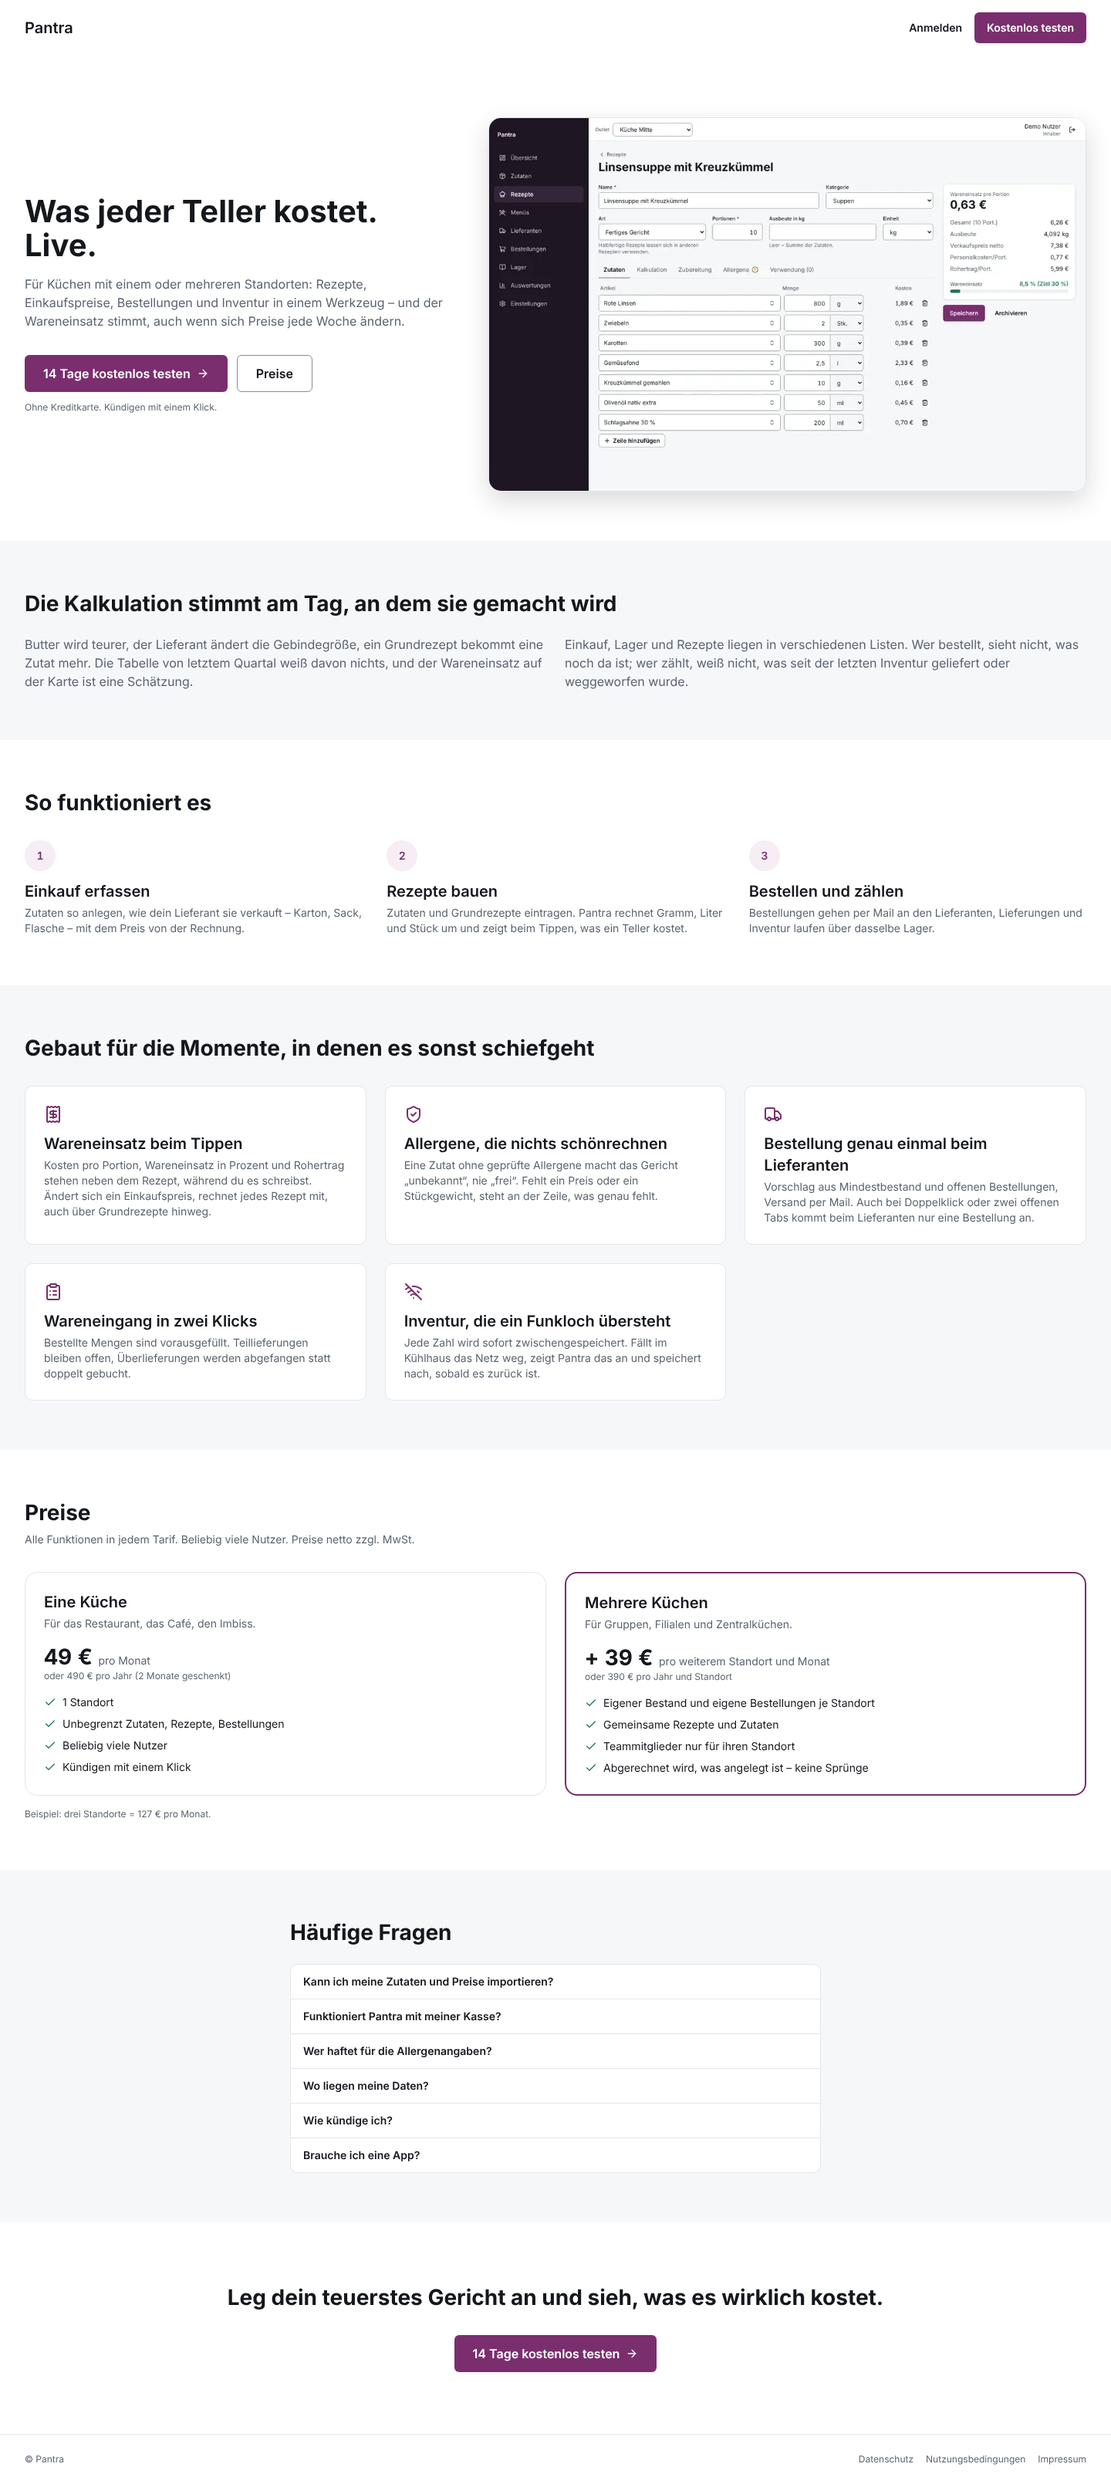
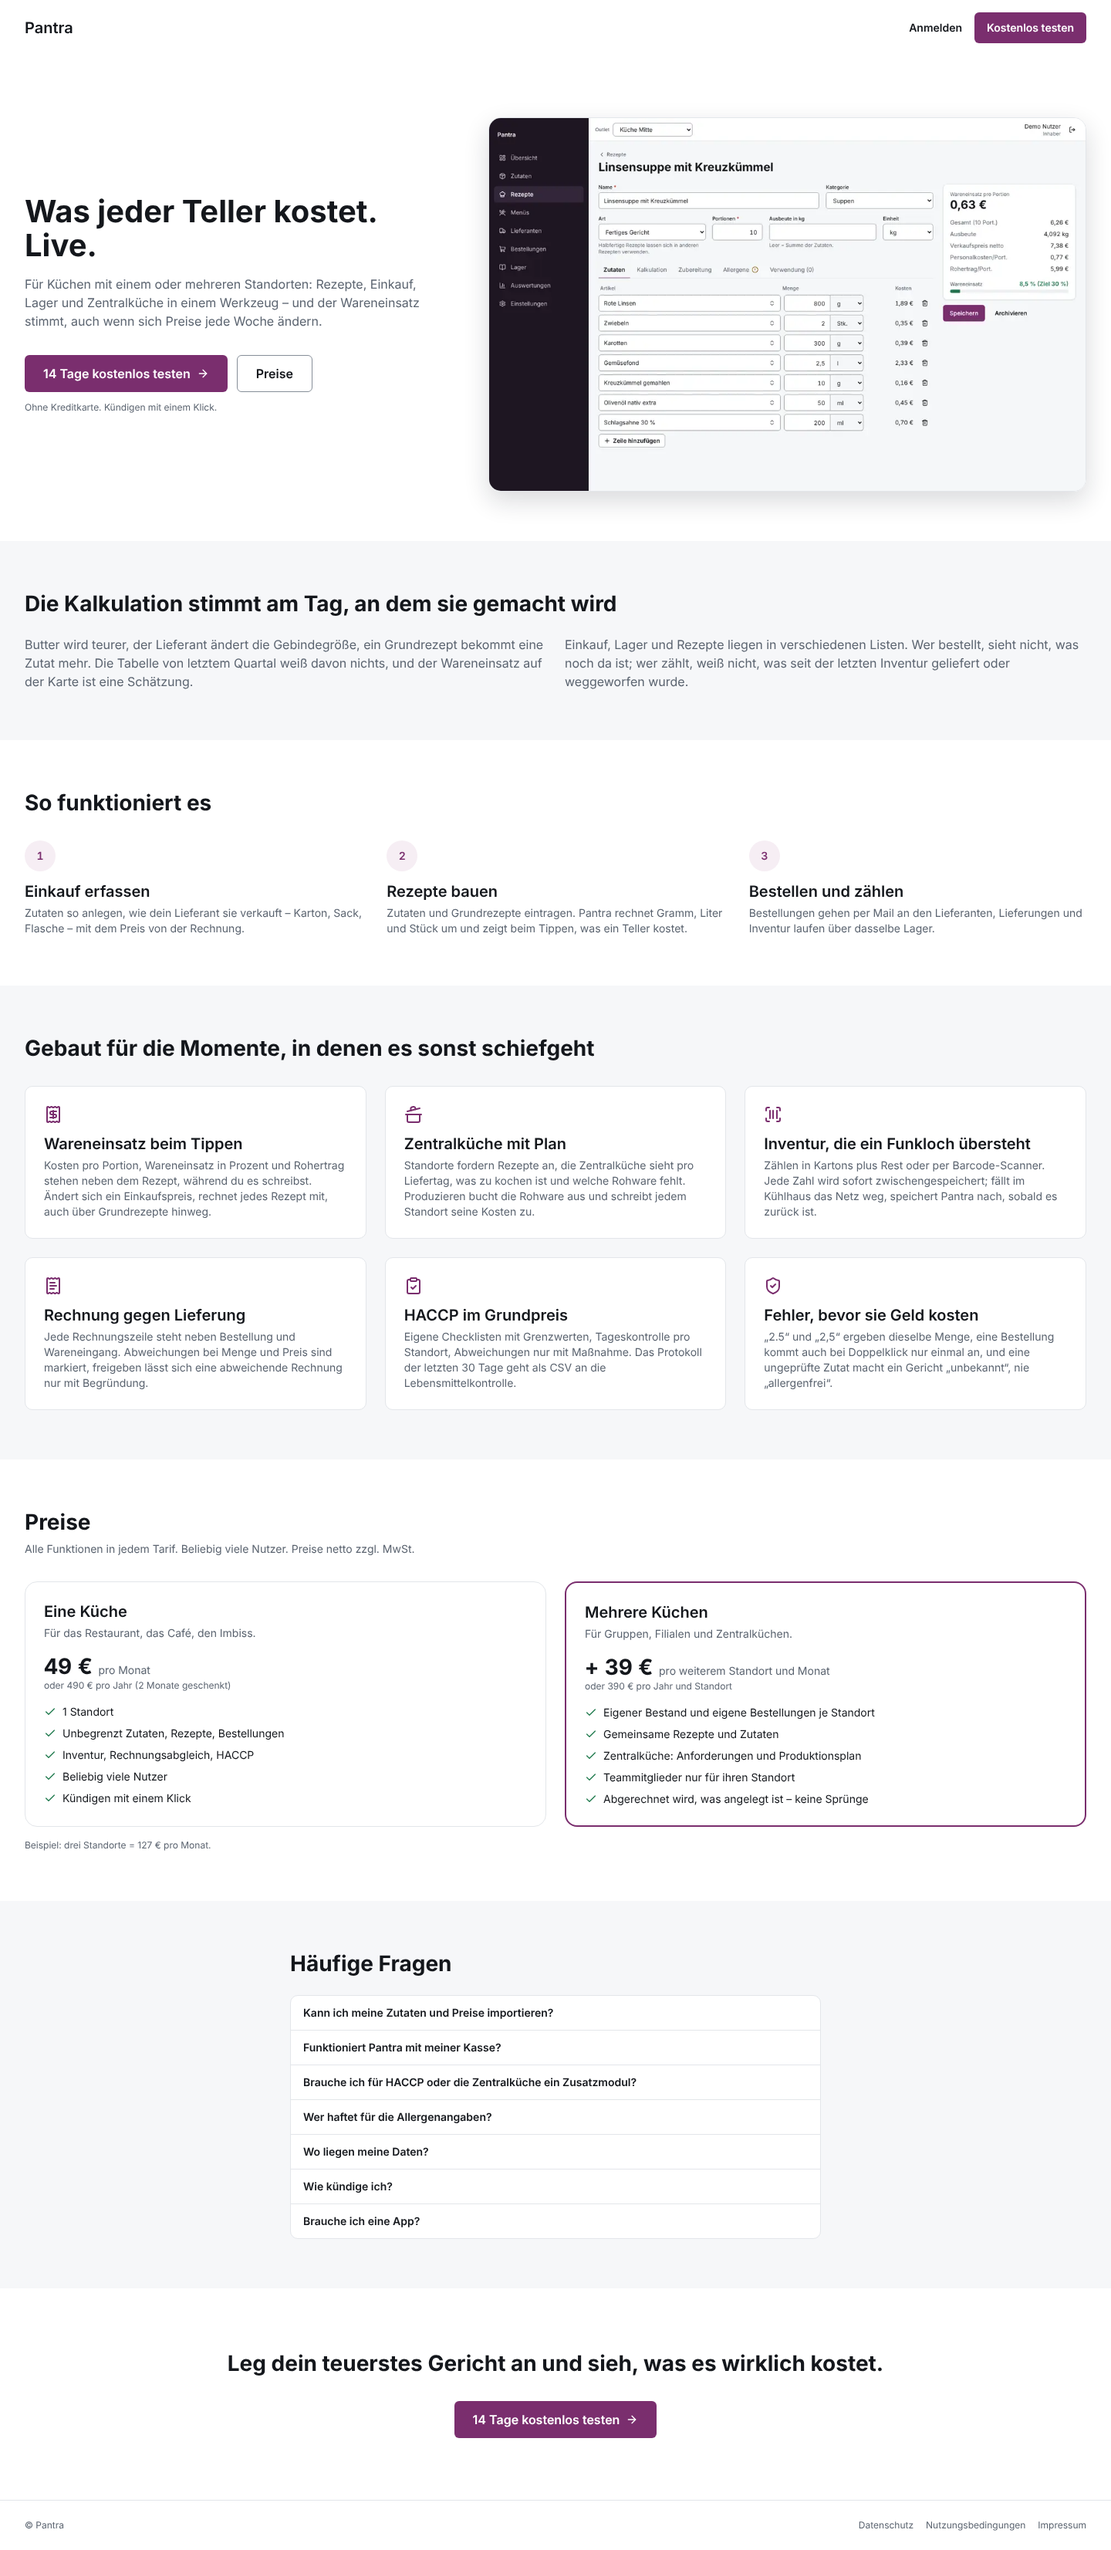
launch: landing, listing and plan for the central kitchen, barcode, invoice and HACCP pass
The FAQ still said price import and the POS connection were not built; both
are. Features now lead with live costing, the central kitchen and the checks
that catch costly mistakes. Listing passes listing.py (HACCP all-caps warning
kept on purpose).

Claude-Session: https://claude.ai/code/session_018UBJPzQ6jRz5ZJsoXmwHpY

diff --git a/web/src/app/page.tsx b/web/src/app/page.tsx
@@ -1,4 +1,4 @@
-import { ArrowRight, Check, ClipboardList, Receipt, ShieldCheck, Truck, WifiOff } from "lucide-react";
+import { ArrowRight, Check, ClipboardCheck, CookingPot, Receipt, ReceiptText, ScanBarcode, ShieldCheck } from "lucide-react";
 import Image from "next/image";
 import Link from "next/link";
 import { APP_NAME } from "@/lib/brand";
@@ -21,19 +21,21 @@ const STEPS = [
 
 const FEATURES = [
   { icon: Receipt, title: "Wareneinsatz beim Tippen", body: "Kosten pro Portion, Wareneinsatz in Prozent und Rohertrag stehen neben dem Rezept, während du es schreibst. Ändert sich ein Einkaufspreis, rechnet jedes Rezept mit, auch über Grundrezepte hinweg." },
-  { icon: ShieldCheck, title: "Allergene, die nichts schönrechnen", body: "Eine Zutat ohne geprüfte Allergene macht das Gericht „unbekannt“, nie „frei“. Fehlt ein Preis oder ein Stückgewicht, steht an der Zeile, was genau fehlt." },
-  { icon: Truck, title: "Bestellung genau einmal beim Lieferanten", body: "Vorschlag aus Mindestbestand und offenen Bestellungen, Versand per Mail. Auch bei Doppelklick oder zwei offenen Tabs kommt beim Lieferanten nur eine Bestellung an." },
-  { icon: ClipboardList, title: "Wareneingang in zwei Klicks", body: "Bestellte Mengen sind vorausgefüllt. Teillieferungen bleiben offen, Überlieferungen werden abgefangen statt doppelt gebucht." },
-  { icon: WifiOff, title: "Inventur, die ein Funkloch übersteht", body: "Jede Zahl wird sofort zwischengespeichert. Fällt im Kühlhaus das Netz weg, zeigt Pantra das an und speichert nach, sobald es zurück ist." },
+  { icon: CookingPot, title: "Zentralküche mit Plan", body: "Standorte fordern Rezepte an, die Zentralküche sieht pro Liefertag, was zu kochen ist und welche Rohware fehlt. Produzieren bucht die Rohware aus und schreibt jedem Standort seine Kosten zu." },
+  { icon: ScanBarcode, title: "Inventur, die ein Funkloch übersteht", body: "Zählen in Kartons plus Rest oder per Barcode-Scanner. Jede Zahl wird sofort zwischengespeichert; fällt im Kühlhaus das Netz weg, speichert Pantra nach, sobald es zurück ist." },
+  { icon: ReceiptText, title: "Rechnung gegen Lieferung", body: "Jede Rechnungszeile steht neben Bestellung und Wareneingang. Abweichungen bei Menge und Preis sind markiert, freigeben lässt sich eine abweichende Rechnung nur mit Begründung." },
+  { icon: ClipboardCheck, title: "HACCP im Grundpreis", body: "Eigene Checklisten mit Grenzwerten, Tageskontrolle pro Standort, Abweichungen nur mit Maßnahme. Das Protokoll der letzten 30 Tage geht als CSV an die Lebensmittelkontrolle." },
+  { icon: ShieldCheck, title: "Fehler, bevor sie Geld kosten", body: "„2.5“ und „2,5“ ergeben dieselbe Menge, eine Bestellung kommt auch bei Doppelklick nur einmal an, und eine ungeprüfte Zutat macht ein Gericht „unbekannt“, nie „allergenfrei“." },
 ];
 
 const FAQ = [
-  { q: "Kann ich meine Zutaten und Preise importieren?", a: "Noch nicht. Ein Import per Excel ist in Arbeit. Bis dahin legst du Zutaten einzeln an; die meisten Küchen starten mit den 30 Artikeln, die sie am häufigsten kaufen." },
-  { q: "Funktioniert Pantra mit meiner Kasse?", a: "Noch nicht. Eine Schnittstelle, über die Kassen Verkäufe übertragen, ist geplant. Bis dahin rechnet Pantra mit Rezepten, Einkauf und Inventur, aber ohne automatischen Abzug verkaufter Gerichte." },
+  { q: "Kann ich meine Zutaten und Preise importieren?", a: "Ja. Die Preisliste deines Lieferanten als Excel- oder CSV-Datei hochladen: Pantra zeigt vor dem Übernehmen jede Zeile als neu, geändert oder fehlerhaft. Übernommen wird erst, wenn du zustimmst." },
+  { q: "Funktioniert Pantra mit meiner Kasse?", a: "Über eine Datei oder eine Schnittstelle: Verkäufe als CSV hochladen oder von der Kasse per API senden lassen. Verknüpfte Gerichte werden über ihre Rezepte vom Lager abgebucht, Stornos zurückgebucht. Fertige Anbindungen an einzelne Kassenhersteller gibt es nicht." },
+  { q: "Brauche ich für HACCP oder die Zentralküche ein Zusatzmodul?", a: "Nein. Alle Funktionen sind in jedem Tarif enthalten. Bezahlt wird nur pro Standort." },
   { q: "Wer haftet für die Allergenangaben?", a: "Pantra rechnet aus deinen Angaben, die Kennzeichnung gegenüber Gästen verantwortet dein Betrieb. Deshalb zeigt Pantra ungeprüfte Zutaten offen an, statt sie als allergenfrei durchzuwinken." },
   { q: "Wo liegen meine Daten?", a: "In der EU (Frankfurt). Zahlungen laufen über Stripe; deine Kartendaten sehen wir nie." },
   { q: "Wie kündige ich?", a: "Mit einem Klick unter Einstellungen → Abo & Rechnungen, ohne Anruf und ohne Formular. Das Abo läuft bis zum Ende des bereits bezahlten Zeitraums und endet dann." },
-  { q: "Brauche ich eine App?", a: "Nein. Pantra läuft im Browser auf Computer, Tablet und Handy. Die Inventur ist für das Handy gebaut." },
+  { q: "Brauche ich eine App?", a: "Nein. Pantra läuft im Browser auf Computer, Tablet und Handy. Inventur und Wareneingang sind für das Handy gebaut, ein Barcode-Scanner mit Tastatur-Modus funktioniert ohne Einrichtung." },
 ];
 
 const eur = (cents: number) => formatCents(cents).replace(",00", "");
@@ -56,7 +58,7 @@ export default function LandingPage() {
           <div>
             <h1 id="hero" className="text-display">Was jeder Teller kostet. Live.</h1>
             <p className="mt-4 max-w-xl text-base text-text-muted">
-              Für Küchen mit einem oder mehreren Standorten: Rezepte, Einkaufspreise, Bestellungen und Inventur in einem Werkzeug –
+              Für Küchen mit einem oder mehreren Standorten: Rezepte, Einkauf, Lager und Zentralküche in einem Werkzeug –
               und der Wareneinsatz stimmt, auch wenn sich Preise jede Woche ändern.
             </p>
             <div className="mt-8 flex flex-wrap gap-3">
@@ -119,7 +121,7 @@ export default function LandingPage() {
               <p className="num mt-4 text-xl">{eur(PRICING.firstOutletMonthly)} <span className="text-sm font-normal text-text-muted">pro Monat</span></p>
               <p className="text-xs font-normal text-text-muted">oder {eur(PRICING.firstOutletYearly)} pro Jahr (2 Monate geschenkt)</p>
               <ul className="mt-4 flex flex-col gap-2">
-                {["1 Standort", "Unbegrenzt Zutaten, Rezepte, Bestellungen", "Beliebig viele Nutzer", "Kündigen mit einem Klick"].map((x) => (
+                {["1 Standort", "Unbegrenzt Zutaten, Rezepte, Bestellungen", "Inventur, Rechnungsabgleich, HACCP", "Beliebig viele Nutzer", "Kündigen mit einem Klick"].map((x) => (
                   <li key={x} className="flex gap-2"><Check aria-hidden className="mt-0.5 size-4 shrink-0 text-success" />{x}</li>
                 ))}
               </ul>
@@ -130,7 +132,7 @@ export default function LandingPage() {
               <p className="num mt-4 text-xl">+ {eur(PRICING.extraOutletMonthly)} <span className="text-sm font-normal text-text-muted">pro weiterem Standort und Monat</span></p>
               <p className="text-xs font-normal text-text-muted">oder {eur(PRICING.extraOutletYearly)} pro Jahr und Standort</p>
               <ul className="mt-4 flex flex-col gap-2">
-                {["Eigener Bestand und eigene Bestellungen je Standort", "Gemeinsame Rezepte und Zutaten", "Teammitglieder nur für ihren Standort", "Abgerechnet wird, was angelegt ist – keine Sprünge"].map((x) => (
+                {["Eigener Bestand und eigene Bestellungen je Standort", "Gemeinsame Rezepte und Zutaten", "Zentralküche: Anforderungen und Produktionsplan", "Teammitglieder nur für ihren Standort", "Abgerechnet wird, was angelegt ist – keine Sprünge"].map((x) => (
                   <li key={x} className="flex gap-2"><Check aria-hidden className="mt-0.5 size-4 shrink-0 text-success" />{x}</li>
                 ))}
               </ul>

diff --git a/web/e2e/landing.spec.ts b/web/e2e/landing.spec.ts
@@ -28,6 +28,15 @@ test.describe("L01 Landingpage", () => {
     await expect(page.getByText(/Mit einem Klick unter Einstellungen/)).toBeVisible();
   });
 
+  test("L01-E3 Funktionen und FAQ nennen, was gebaut ist", async ({ page }) => {
+    await page.goto("/");
+    const features = page.getByRole("region", { name: /Gebaut für die Momente/ });
+    for (const title of ["Zentralküche mit Plan", "Rechnung gegen Lieferung", "HACCP im Grundpreis"]) await expect(features.getByRole("heading", { name: title })).toBeVisible();
+    await page.getByText("Kann ich meine Zutaten und Preise importieren?").click();
+    await expect(page.getByText(/^Ja\. Die Preisliste deines Lieferanten/)).toBeVisible();
+    await expect(page.locator("body")).not.toContainText("Noch nicht.");
+  });
+
   test("L01-N1 Rechtsseiten verlinkt", async ({ page }) => {
     await page.goto("/");
     for (const name of ["Datenschutz", "Nutzungsbedingungen", "Impressum"]) {

diff --git a/replica/launch/landing.md b/replica/launch/landing.md
@@ -4,6 +4,10 @@ Gebaut: `web/src/app/page.tsx` (Route `/`, statisch). Die App liegt jetzt unter 
 `landing-mobile.png`. Geprüft: axe WCAG 2.2 AA ohne Verstoß, Kontrast über die Tokens (31 Paare, 0 Fehler), kein seitliches
 Scrollen bei 390 px, FAQ per Tastatur (E2E `landing.spec.ts`).
 
+**Stand 2026-10-21:** Positionierung aus `brand.md` (Winkel 1, ohne Bewertungen auf deinen Wunsch): Live-Kalkulation plus
+Lager und Zentralküche. FAQ korrigiert: Import und Kassen-Anbindung standen dort noch als „noch nicht“, sind aber seit dem
+3. und 5. Durchgang gebaut. Vier neue Funktionen auf der Seite (Zentralküche, Barcode-Inventur, Rechnungsabgleich, HACCP).
+
 **Einschränkung:** `fixes.md` hat noch keine belegte Positionierung (0 Bewertungen). Die Seite führt deshalb mit dem, was
 Pantra nachweislich kann (durch E2E-Tests belegt), und nicht mit Klagen über das Original. Sobald `feedback.md` existiert:
 Problem-Abschnitt und Feature-Reihenfolge neu ordnen.
@@ -13,7 +17,7 @@ Regel für jede Aussage auf der Seite: Sie muss im Produkt stimmen und getestet 
 
 ## 1. Hero
 - **Überschrift:** Was jeder Teller kostet. Live.
-- **Darunter:** Für Küchen mit einem oder mehreren Standorten: Rezepte, Einkaufspreise, Bestellungen und Inventur in einem Werkzeug – und der Wareneinsatz stimmt, auch wenn sich Preise jede Woche ändern.
+- **Darunter:** Für Küchen mit einem oder mehreren Standorten: Rezepte, Einkauf, Lager und Zentralküche in einem Werkzeug – und der Wareneinsatz stimmt, auch wenn sich Preise jede Woche ändern.
 - **Button:** 14 Tage kostenlos testen → `/signup` · zweiter Link: Preise
 - **Bild:** echter Screenshot des Rezept-Editors (Seed-Daten, keine echten Kunden)
 
@@ -28,16 +32,20 @@ Einkauf erfassen → Rezepte bauen → Bestellen und zählen (der Kernablauf F01
 | Funktion | Beleg |
 | --- | --- |
 | Wareneinsatz beim Tippen, rechnet bei Preisänderung über Grundrezepte mit | E2E F02-H1, F03-H1, F04-H1 |
-| Allergene: ungeprüft = „unbekannt“, nie „frei“; fehlender Preis wird an der Zeile genannt | Unit-Test `allergens`, E2E F02-E1/E2 |
-| Bestellung genau einmal beim Lieferanten, auch bei Doppelklick und zwei Tabs | E2E F06-E1, F06-E2 |
-| Wareneingang vorausgefüllt, Teillieferung, Überlieferung abgefangen | E2E F07-H1, F07-N1 |
-| Inventur übersteht ein Funkloch | E2E F08-E2 (BUG-004 behoben) |
+| Zentralküche: Anforderung, Plan je Liefertag mit Rohware und Fehlmengen, Produzieren bucht aus und verteilt Kosten | E2E F13-H1/H2, Integrationstest |
+| Inventur in Gebinden oder per Barcode-Scanner, übersteht ein Funkloch | E2E F08-E2, F08-B1/B3 (BUG-004, BUG-016 behoben) |
+| Rechnung gegen Bestellung und Lieferung, Freigabe bei Abweichung nur mit Begründung | E2E F12-H1, F12-E1 |
+| HACCP im Grundpreis: Checklisten, Grenzwerte, Maßnahme Pflicht, CSV-Protokoll | E2E F14-H1, F14-E1 |
+| Fehler abfangen: Punkt/Komma, Bestellung genau einmal, ungeprüfte Allergene nie „frei“ | E2E X-DEC, F06-E1/E2, Unit-Test `allergens` |
+
+Nicht auf der Seite: Kamera-Scan per Handy (nur von Hand prüfbar, F08-B5 offen) und „Fertigware im Lager“ (nicht gebaut).
 
 ## 5. Preise
 Aus `pricing.md`, Werte aus einer Quelle (`web/src/lib/pricing.ts`), E2E prüft das Rechenbeispiel.
 
 ## 6. FAQ
-Import (noch nicht – ehrlich gesagt), Kasse (noch nicht), Haftung Allergene, Datenstandort, Kündigen, App nötig?
+Import (ja: Excel/CSV mit Vorschau), Kasse (CSV oder API; keine fertigen Hersteller-Anbindungen), Zusatzmodule (keine),
+Haftung Allergene, Datenstandort, Kündigen, App nötig?
 
 ## 7. Abschluss
 „Leg dein teuerstes Gericht an und sieh, was es wirklich kostet.“ + Button.
@@ -47,6 +55,8 @@ Kundenstimmen, Logos, Nutzerzahlen, Sterne – es gibt noch keine Kunden. Kommen
 schriftlicher Erlaubnis. Bewertungen des Originals sind Recherche, keine Testimonials. Der Name des Originals erscheint nirgends.
 
 ## Vor dem Start prüfen
+- **Name:** Pantra hat einen Namensvetter im App Store (`brand.md`). Nach deiner Entscheidung ändert sich nur `APP_NAME`; Screenshots dann neu.
+- Hero-Bild `web/public/landing/rezept-kalkulation.png` zeigt die Navigation vor Zentralküche und HACCP; mit dem Namen zusammen neu aufnehmen.
 - „Daten in der EU (Frankfurt)“ stimmt nur, wenn Supabase und Vercel dort eingerichtet sind (`backend.md`).
 - „Kündigen mit einem Klick“ setzt voraus, dass im Stripe-Kundenportal Kündigen aktiviert ist.
 - Impressum, Datenschutz und Nutzungsbedingungen sind Entwürfe (`/legal/*`).

diff --git a/replica/launch/launch-plan.md b/replica/launch/launch-plan.md
@@ -1,6 +1,7 @@
 # Launch-Plan
 
-Voraussetzung: `/replica-deploy` grün, alle Must-haves fertig (`parity.md`: noch 5 offen), Entwürfe der Rechtsseiten geprüft.
+Voraussetzung: `/replica-deploy` grün, alle Must-haves fertig (`parity.md`: noch 1 offen, dein Login-Durchklick A02),
+Entwürfe der Rechtsseiten geprüft, **Name entschieden** (`brand.md`: Pantra hat einen Namensvetter im App Store).
 
 ## Vor dem Start (4–6 Wochen)
 
@@ -24,10 +25,11 @@ Erst lesen, dann schreiben: in jeder Community zuerst Fragen beantworten, Pantra
 
 Führt mit dem, was belegt besser ist, nicht mit dem Vergleich zum Original (den Namen des Originals nicht nennen):
 
-> Pantra: Was jeder Teller kostet, live – und das Lager rechnet mit.
+> Pantra: Was jeder Teller kostet, live – und Lager und Zentralküche rechnen mit.
 > Zutaten so anlegen, wie der Lieferant sie verkauft; Rezepte zeigen beim Tippen den Wareneinsatz pro Portion; die
-> Inventur auf dem Handy speichert jede Zahl sofort, auch ohne Netz. Pro Standort bezahlt, beliebig viele Nutzer,
-> Kündigen mit einem Klick.
+> Zentralküche sieht pro Tag, was die Standorte brauchen und welche Rohware fehlt; die Inventur auf dem Handy speichert
+> jede Zahl sofort, auch ohne Netz. HACCP und Rechnungsabgleich ohne Zusatzmodul. Pro Standort bezahlt, beliebig viele
+> Nutzer, Kündigen mit einem Klick.
 
 Für HN zusätzlich ehrlich die Technik: Postgres mit Row Level Security als Zugriffsgrenze, Lager als Buchungsjournal mit
 gleitendem Durchschnittspreis im Datenbank-Trigger.
@@ -49,4 +51,4 @@ nachfragen, was sie in Pantra nicht tun konnten. Das ist die echte Feature-Liste
 wird erst mit einer echten App. Dann: Screenshots in den aktuell geforderten Größen, Datenschutz-Angaben (App Privacy /
 Data safety: E-Mail, Name, Betriebsdaten; keine Werbung, kein Tracking), Altersfreigabe 4+, Datenschutz- und Support-URL,
 Review-Notizen mit einem Demo-Konto. Nach Apple-Richtlinie 4.1 (Nachahmer) helfen die eigenen Funktionen und die eigene
-Marke durch die Prüfung: Live-Kalkulation und Offline-Inventur gehören in die ersten Zeilen und Screenshots.
+Marke durch die Prüfung: Live-Kalkulation, Zentralküche und Offline-Inventur gehören in die ersten Zeilen und Screenshots.

diff --git a/replica/launch/pricing.md b/replica/launch/pricing.md
@@ -12,6 +12,10 @@ und widersprechen sich teils. Vor jeder Entscheidung die Preisseiten selbst öff
 | meez | Tarif pro Monat | Starter 24 $ (19 $ jährlich), Starter Plus 89 $ (79 $), Scale 199 $ (179 $) mit Inventur für mehrere Standorte | getmeez.com/pricing (Suchauszug) | Suchauszug der offiziellen Seite |
 | Rezeptrechner PRO (DACH) | Jahresabo | ca. 120–140 €/Jahr, nur Kalkulation/Nährwerte/Etiketten | digistore24.com (Produktseiten), capterra | Händlerseiten, Tarifzuordnung unklar |
 
+Stand der Tabelle: 2026-10-20, am 2026-10-21 nicht erneut gelesen (Quellen weiter gesperrt). Laut Recon ist HACCP beim
+Original ein Zusatzmodul; bei Pantra ist es wie die Zentralküche in jedem Tarif enthalten. Die Preise bleiben unverändert:
+49 € + 39 € je weiterem Standort.
+
 ## Was Nutzer zu Preis und Abrechnung sagen
 
 Keine Daten: 0 Bewertungen gesammelt (siehe `fixes.md`). Diese Spalte wird ergänzt, sobald `feedback.md` existiert.
